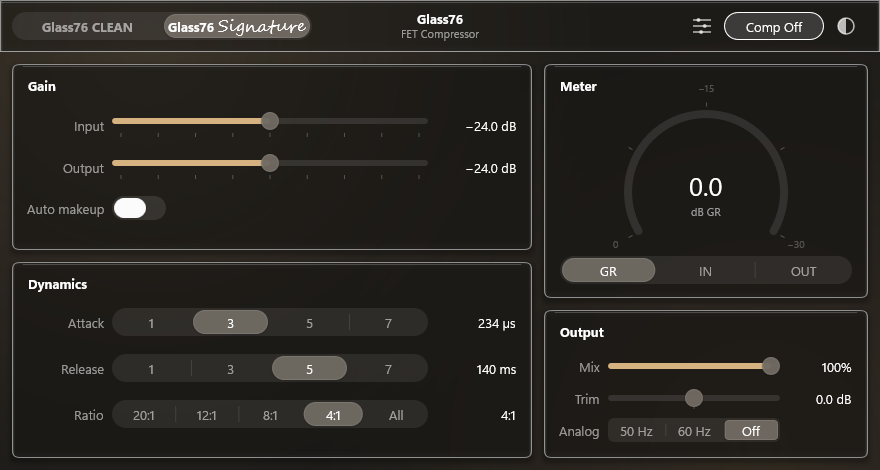
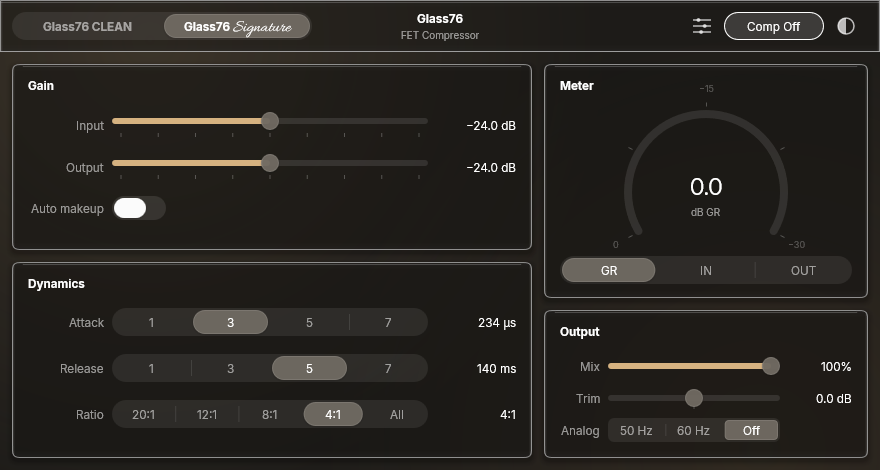
Fix ui_snapshot silently falling back to system fonts
glass76_ui_snapshot never called setResourceBasePath(), so the private
DirectWrite collection was never populated with the bundle's Fonts --
Inter, Inter Display and Allura were all silently unavailable, and every
render fell back to a system substitute (Segoe UI / Segoe Script) without
any error. A real plug-in only gets this call when a VSTGUIEditor opens
inside an actual loaded VST3 bundle, which this standalone tool never
does.

Points the tool at resource/ (the same folder CMake copies into
Contents/Resources) via a new GLASS76_RESOURCE_DIR compile definition.
Verified against a real editorhost capture of the built bundle -- output
now matches pixel-for-pixel.

docs/images/editor-{dark,light}.png re-captured with the fixed tool: the
"Glass76 Signature" wordmark now genuinely shows Allura, not Segoe Script.

Claude-Session: https://claude.ai/code/session_0117xscmi9m2W9YLaUBYqNHL

diff --git a/tools/ui_snapshot.cpp b/tools/ui_snapshot.cpp
@@ -18,6 +18,8 @@
 
 #include "vstgui/lib/cbitmap.h"
 #include "vstgui/lib/coffscreencontext.h"
+#include "vstgui/lib/platform/platformfactory.h"
+#include "vstgui/lib/platform/win32/win32factory.h"
 #include "vstgui/lib/vstguiinit.h"
 
 #include <cstdint>
@@ -110,6 +112,16 @@ int main (int argc, char** argv)
 	CoInitializeEx (nullptr, COINIT_APARTMENTTHREADED);
 
 	VSTGUI::init (GetModuleHandle (nullptr));
+
+	// A real plug-in picks this up from setupVSTGUIBundleSupport(), which the
+	// host only calls when a VSTGUIEditor actually opens inside a loaded VST3
+	// bundle -- this standalone tool never does either, so without this call
+	// the private DirectWrite collection is never populated and every font
+	// silently falls back to a system substitute (Segoe UI / Segoe Script)
+	// instead of the bundled Inter/Inter Display/Allura. GLASS76_RESOURCE_DIR
+	// is resource/, the same folder CMake copies into Contents/Resources.
+	if (auto* win32 = VSTGUI::getPlatformFactory ().asWin32Factory ())
+		win32->setResourceBasePath (GLASS76_RESOURCE_DIR);
 
 	std::string outDir = (argc > 1) ? argv[1] : ".";
 	std::string bgImagePath = (argc > 2) ? argv[2] : "";
